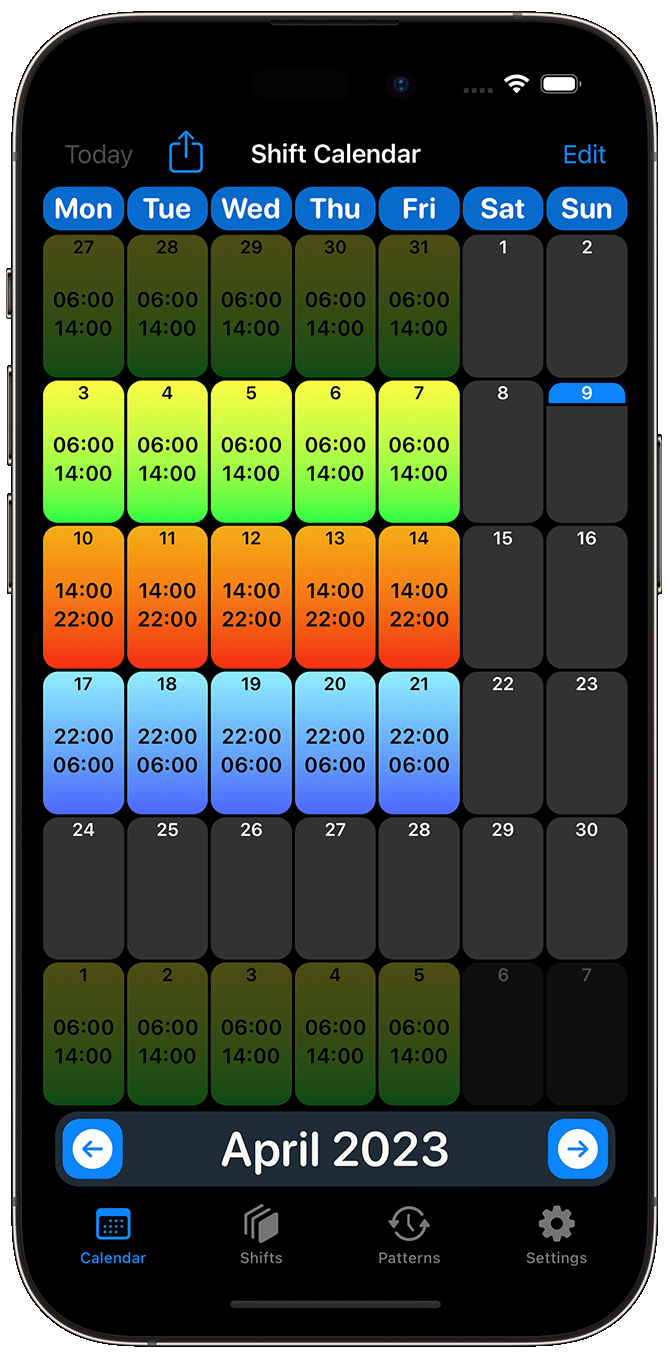
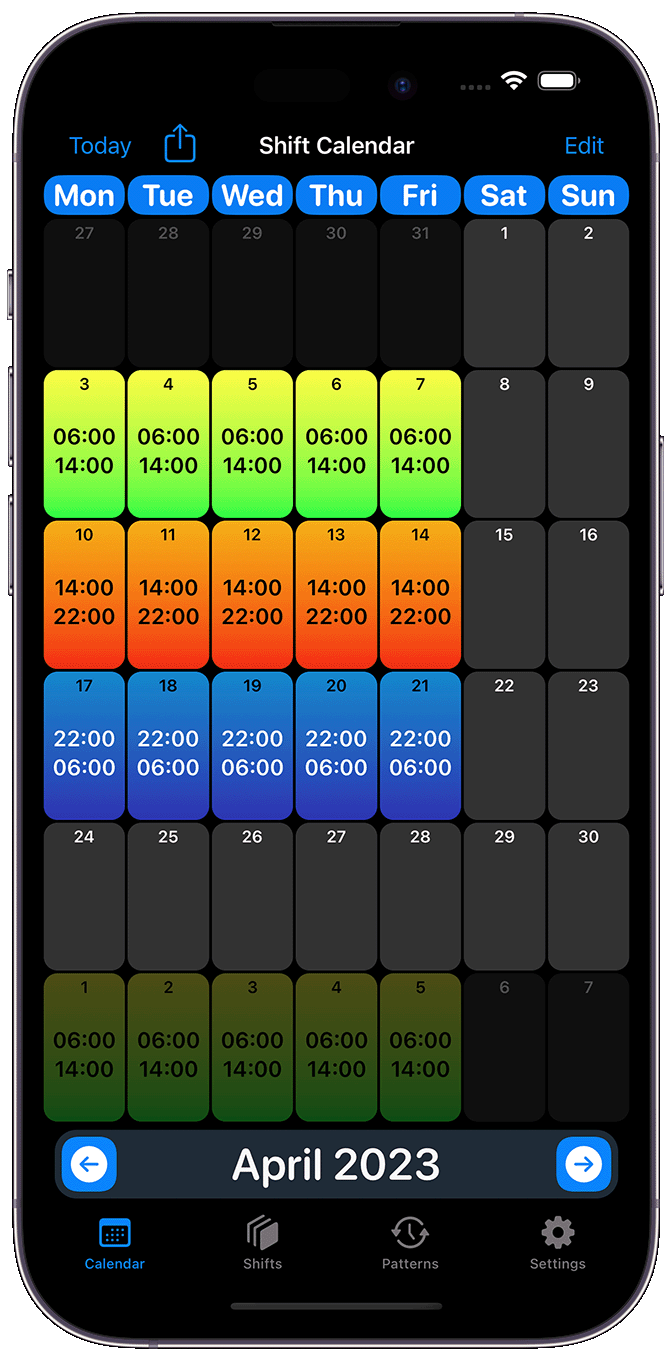
1.2 Updated screenshots Pattern repeat count reset back to 1 after applying/closing.

diff --git a/SimpleShift/managers/CalendarPageManager.swift b/SimpleShift/managers/CalendarPageManager.swift
@@ -174,7 +174,7 @@ extension CalendarPageManager {
         cacheCalendarPages()
     }
 
-    public func setPatternFromDate(pattern: Pattern?, repeatCount: Int = 1) {
+    public func setPatternFromDate(pattern: Pattern?, repeatCount: Int = 1) async {
         guard let weekArray = pattern?.weekArray else { return }
 
         var unpacked = [UUID?]()
@@ -213,9 +213,11 @@ extension CalendarPageManager {
         } catch {
             return
         }
-
+        
         cacheCalendarPages()
-        setMonth()
+        DispatchQueue.main.async {
+            self.setMonth()
+        }
     }
 }
 
@@ -336,13 +338,13 @@ extension CalendarPageManager {
 
     private func cacheCalendarPages() {
         Task {
+            pageCache.removeAll()
             for iter in -2...2 {
                 if iter == 0 { continue }
                 let dateComp = DateComponents(month: iter)
                 guard let iterDate = userCalendar.date(byAdding: dateComp, to: setDate) else { continue }
 
                 let page = getCalendarPage(date: iterDate)
-                pageCache.removeAll(where: { $0.id == page.id })
                 pageCache.append(page)
             }
         }

diff --git a/SimpleShift/views/tabs/calendar/CalendarDateView.swift b/SimpleShift/views/tabs/calendar/CalendarDateView.swift
@@ -69,7 +69,7 @@ struct CalendarDateView: View, Sendable {
         .popover(isPresented: $showPatternConfirm, content: {
             NavigationView { patternConfirmation.navigationBarTitle("confirmpattern", displayMode: .inline) }
                     .presentationDetents([.fraction(0.33), .medium])
-                    .onDisappear { calendarManager.deselectAll(); calendarPattern.deselectPattern() }
+                    .onDisappear { calendarManager.deselectAll(); calendarPattern.deselectPattern(); repeatCount = 1 }
         })
     }
 
@@ -224,7 +224,7 @@ struct CalendarDateView: View, Sendable {
             
             Button("applypattern") {
                 Task {
-                    calendarManager.setPatternFromDate(pattern: calendarPattern.applyingPattern, repeatCount: repeatCount)
+                    await calendarManager.setPatternFromDate(pattern: calendarPattern.applyingPattern, repeatCount: repeatCount)
                     showPatternConfirm = false
                     isEditing = false
                     calendarPattern.isApplyingPattern = false
